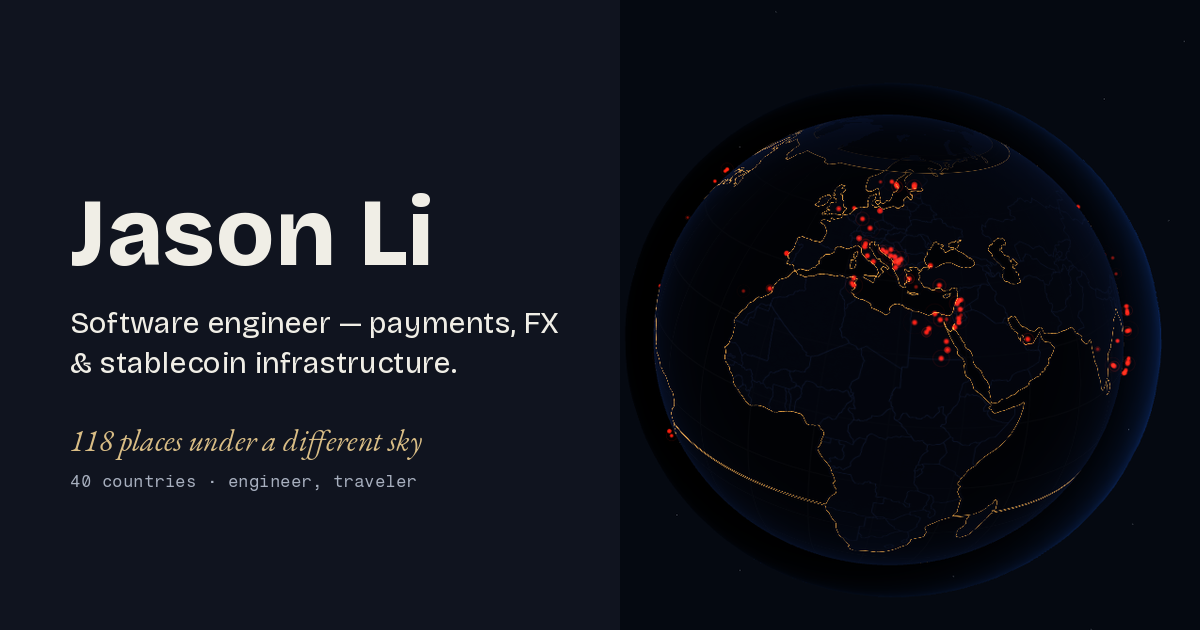
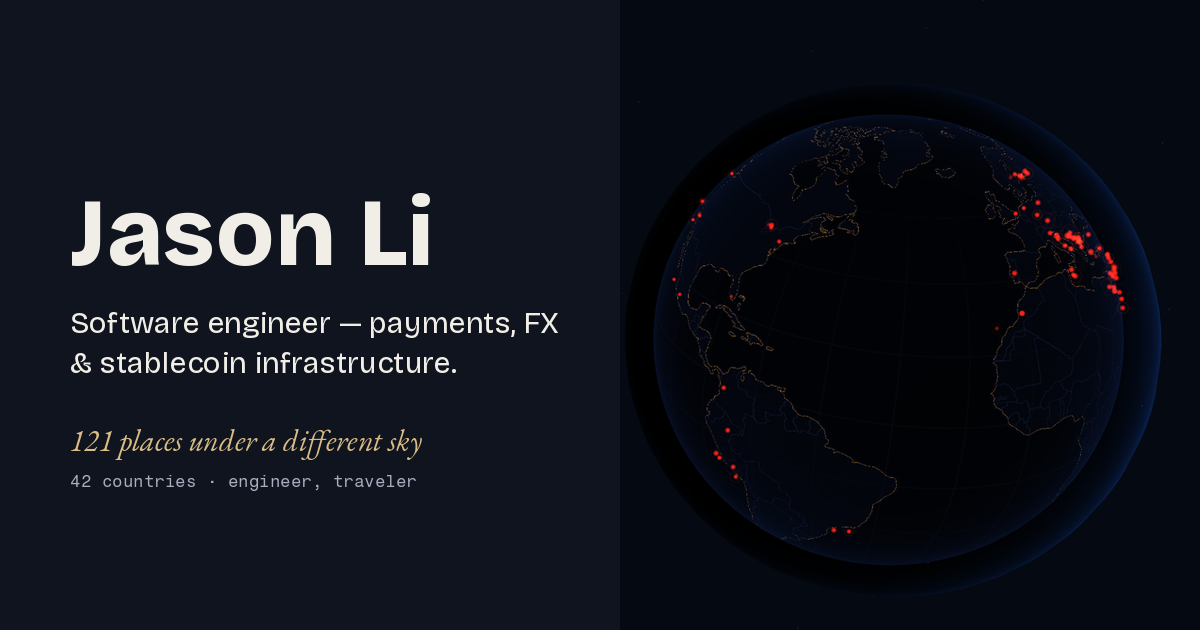
Regenerate og.png with live counts; make_og reads PIPELINE_BASE
The previous commit claimed og.png was regenerated; the script had failed on
a stale scratchpad path. Fixed and rerun (121 places, 42 countries).

diff --git a/scripts/make_og.py b/scripts/make_og.py
@@ -6,7 +6,8 @@ import os
 from fontTools.ttLib.woff2 import decompress
 from PIL import Image, ImageDraw, ImageFont
 
-BASE = "/private/tmp/claude-501/-Users-jasonli-dev/609d9fd3-c32a-476f-9147-b3fa5a85aced/scratchpad"
+# night-hero.png: a 1440px-wide screenshot of the hero (globe on the right, text-free there)
+BASE = os.environ.get("PIPELINE_BASE", os.path.expanduser("~/dev/personal-website/.pipeline"))
 NM = "/Users/jasonli/dev/personal-website/node_modules"
 OUT = "/Users/jasonli/dev/personal-website/public/og.png"
 
